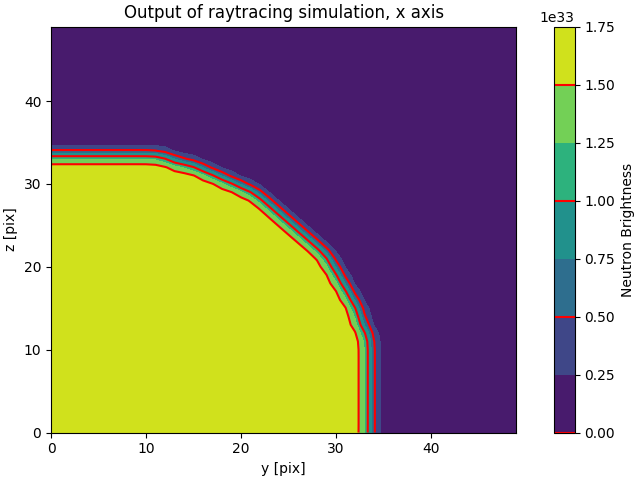
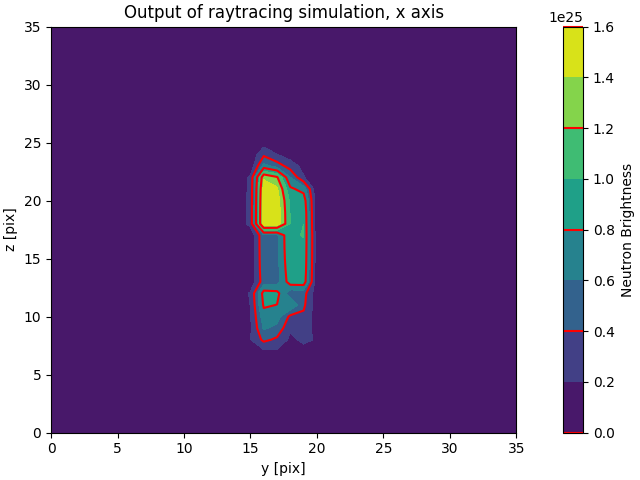
Progress save
Field image of a bar magnet can be successfully generated. However, the problem where POV can not be switched remains unsolved.

diff --git a/main.py b/main.py
@@ -6,14 +6,16 @@ from matplotlib import pyplot as plt
 import config
 import config_fns
 import ray_tracing_fns
+import os
 
 # Configuration
 DATA_PATH = "E:/Documents and stuff/School_Stuff/_CSNS/PNI/COMSOL6.0(64bit)/Simulations/"
+# DATA_FILE = "Horseshoe.txt"
 DATA_FILE = "bar_magnet.txt"
 
-AXIS = "x"
+AXIS = "z"
 
-PLOT_FIELD_FIRST = False # If true, generates a plot of the field before raytracing
+PLOT_FIELD_FIRST = True # If true, generates a plot of the field before raytracing
 SOURCE_PROFILE = "gaussian" # Defines a source profile (use an imported function here)
 
 # Execution code
@@ -27,21 +29,33 @@ if __name__ == "__main__":
         field = data["field"]
         field_loc = data["field_loc"]
 
+    # Trim the data
+    field = field[1:-1, 1:-1, 1:-1, :]
+    field_loc = field_loc[:, 1:-1, 1:-1, 1:-1]
+
+    # Rotate the field
+    axis_rot = {"x": [0, 1, 2], "y": [1, 0, 2], "z": [2, 0, 1]}
+
+    field_T = np.transpose(field, (3, 0, 1, 2))
+    field_T = field_T[axis_rot[AXIS]]
+    field = np.transpose(field_T, (1, 2, 3, 0))
+
+    field_loc = field_loc[axis_rot[AXIS]]
+
     space_dim = np.shape(field)
-    space_lim = (np.array(space_dim[:-1])-2)
+    space_dim = np.array(space_dim[:-1])-2
 
     # Plot the input data
     if PLOT_FIELD_FIRST:
         ax = plt.figure().add_subplot(projection='3d')
-        field_temp = field[:-2, :-2, :-2, :]
-        field_temp = np.transpose(field_temp, (3, 0, 1, 2))
-        x, y, z = field_loc[:, :-2, :-2, :-2]
+        field_temp = np.copy(field_T)
+        x, y, z = field_loc
         ax.quiver(x, y, z,
                   field_temp[0], field_temp[1], field_temp[2],
                   length = 1, normalize = True)
-        plt.xlim(0, space_lim[0])
-        plt.ylim(0, space_lim[1])
-        ax.set_zlim(0, space_lim[2])
+        plt.xlim(0, space_dim[0])
+        plt.ylim(0, space_dim[1])
+        ax.set_zlim(0, space_dim[2])
         plt.show()
 
     if SOURCE_PROFILE is None:
@@ -57,18 +71,20 @@ if __name__ == "__main__":
     start_time = datetime.now()
     print("Starting raytracing at " + str(start_time))
 
-    output = np.zeros(space_dim[:-2])
+    output = np.zeros(space_dim[1:])
+    print(np.shape(output))
 
     PIX_COUNT = 0
     PIX_TIME = 0
     tot_pix = np.prod(space_dim[:-1])
-    with mp.Pool(processes = mp.cpu_count()) as pool:
+    with mp.Pool(processes = os.cpu_count()) as pool:
         for i, row in enumerate(output):
             for j, col in enumerate(row):
                 pix_start = datetime.now()
                 progress = round(PIX_COUNT/tot_pix * 100, 2)
                 print(f"Now processing pixel ({i}, {j}), progress {progress}%. "
-                      f"Last pixel used {PIX_TIME}.")
+                      f"Last pixel used {PIX_TIME}. "
+                      f"Total time elapsed: {datetime.now() - start_time}")
                 i_pix = pool.apply_async(ray_tracing_fns.ray_tracing_sim,
                                          args=(field, (i, j), source))
                 i_pix = i_pix.get()

diff --git a/debug.py b/debug.py
@@ -4,4 +4,6 @@ import numpy as np
 DATA_PATH = "E:/Documents and stuff/School_Stuff/_CSNS/PNI/COMSOL6.0(64bit)/Simulations/"
 DATA_FILE = "bar_magnet.txt"
 
-print(np.tan(np.radians(30)))
+test = np.array([[1, 2, 3], [4, 5, 6], [7, 8, 9], [10, 11 ,12]])
+
+print(np.shape(test))
